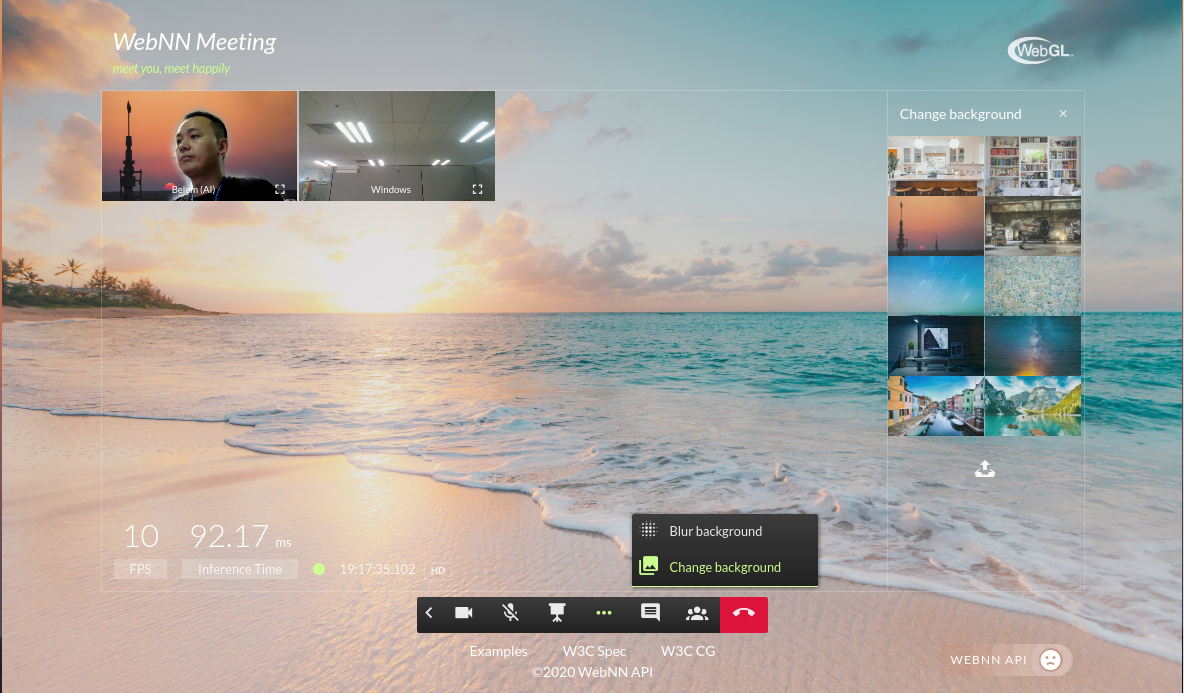
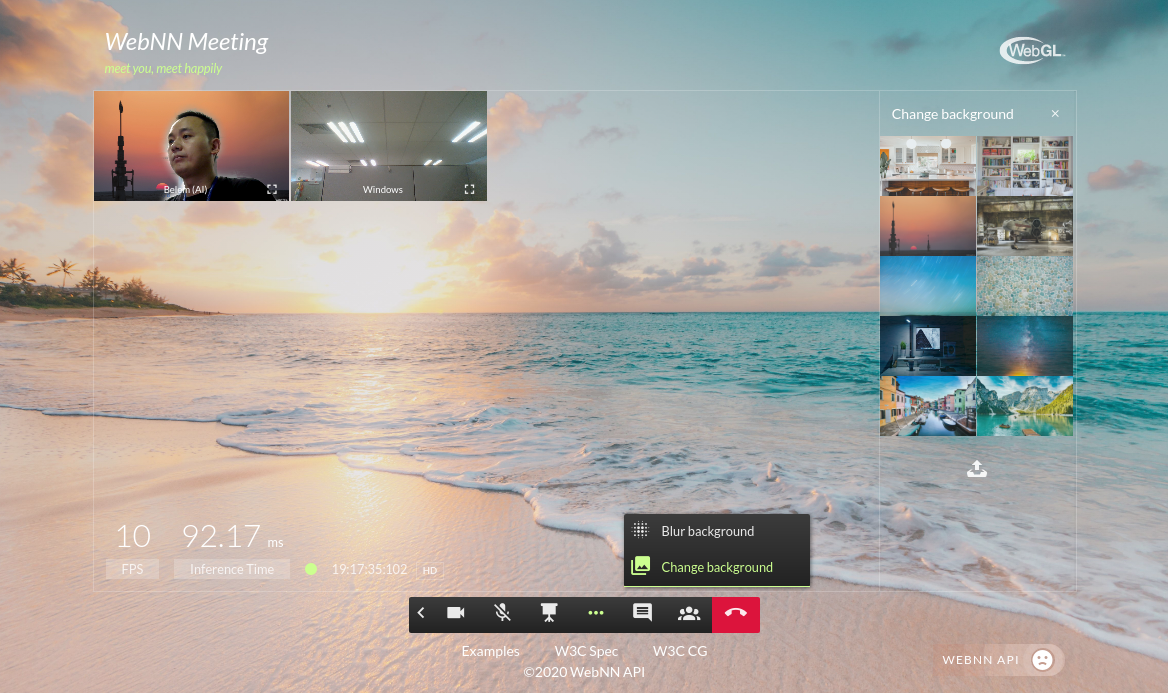
package.json update

diff --git a/README.md b/README.md
@@ -19,8 +19,8 @@ A Web-based Intelligent Collaboration (Video Conference) example with AI feature
 
 ## Screenshot
 
-![WebNN Meeting](doc/screenshot1.jpg)
-![WebNN Meeting FullScreen](doc/screenshot2.jpg)
+<img src="doc/screenshot1.png" alt="WebNN Meeting" width="60%">
+<img src="doc/screenshot2.png" alt="WebNN Meeting" width="60%">
 
 ## Supported Backends for Web Machine Learning Features
 
